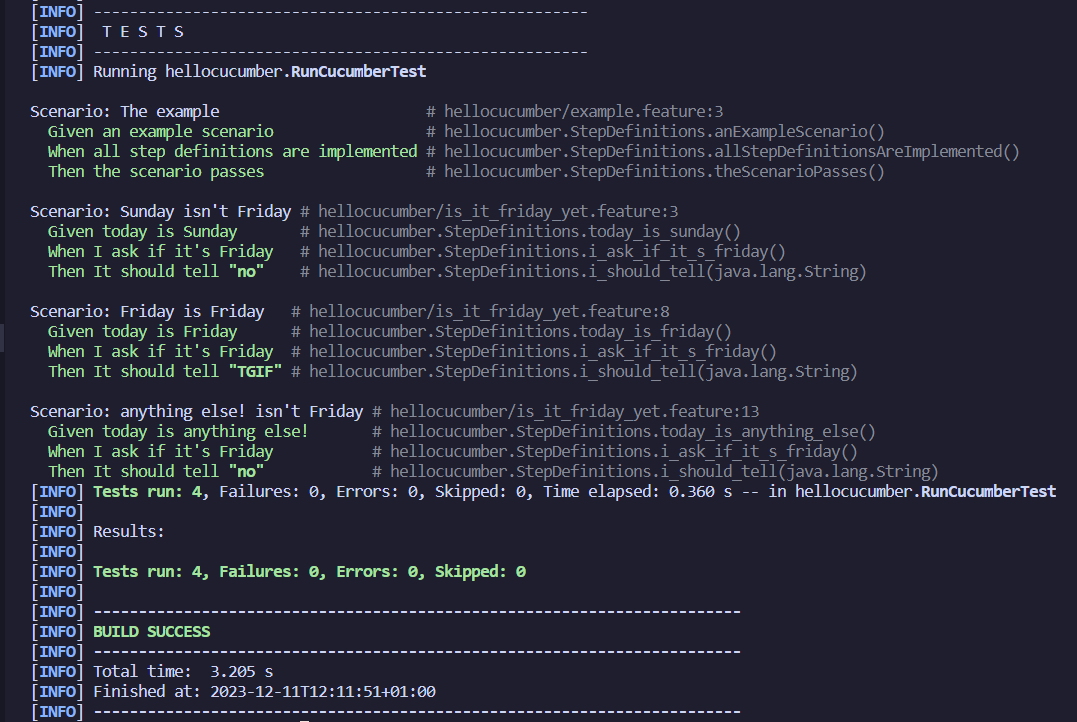
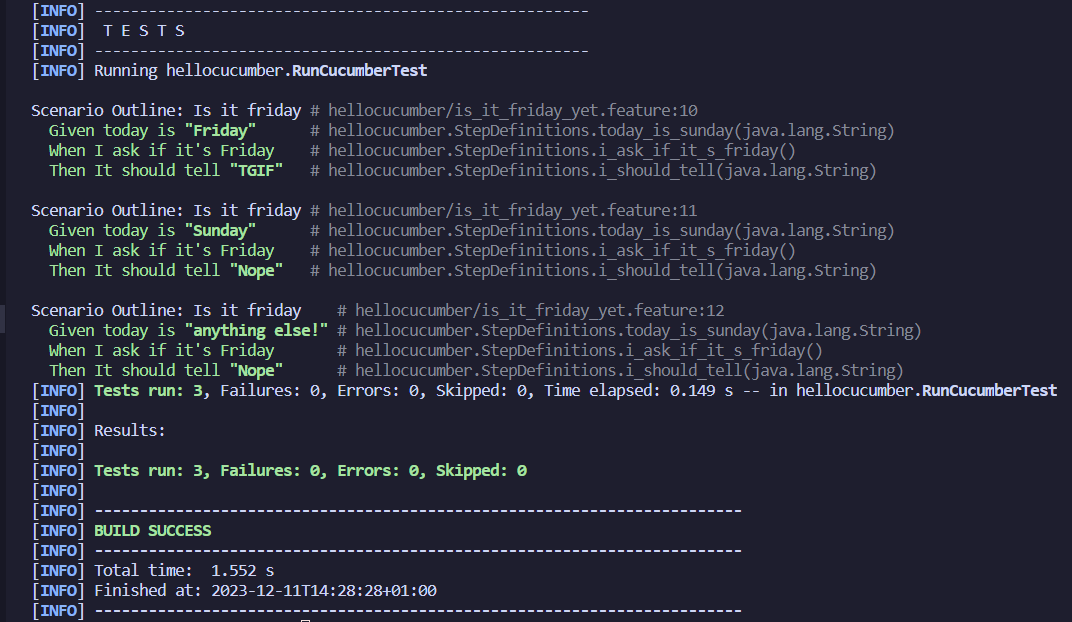
End TP1

Changed region(s): [[0.0, 0.0, 0.9851, 1.0]]

diff --git a/hellocucumber/src/test/java/hellocucumber/StepDefinitions.java b/hellocucumber/src/test/java/hellocucumber/StepDefinitions.java
@@ -8,24 +8,12 @@ import org.junit.jupiter.api.Assertions.*;
 
 public class StepDefinitions {
 
-    @Given("an example scenario")
-    public void anExampleScenario() {
-    }
-
-    @When("all step definitions are implemented")
-    public void allStepDefinitionsAreImplemented() {
-    }
-
-    @Then("the scenario passes")
-    public void theScenarioPasses() {
-    }
-
     String today;
     String actualAnswer;
 
-    @Given("today is Sunday")
-    public void today_is_sunday() {
-        today = "Sunday";
+    @Given("today is {string}")
+    public void today_is_sunday(String day) {
+        today = day;
     }
 
     @When("I ask if it's Friday")
@@ -34,18 +22,8 @@ public class StepDefinitions {
     }
 
     @Then("It should tell {string}")
-    public void i_should_tell(String string) {
-            assertEquals(string, actualAnswer);
-    }
-
-    @Given("today is Friday")
-    public void today_is_friday() {
-        today = "Friday";
-    }
-
-    @Given("today is anything else!")
-    public void today_is_anything_else() {
-        today = "anything else";
+    public void i_should_tell(String answer) {
+            assertEquals(answer, actualAnswer);
     }
 }
 
@@ -54,6 +32,6 @@ class IsItFriday {
         if (today.equals("Friday")) {
             return "TGIF";
         }   
-        return "no";
+        return "Nope";
     }
 }
